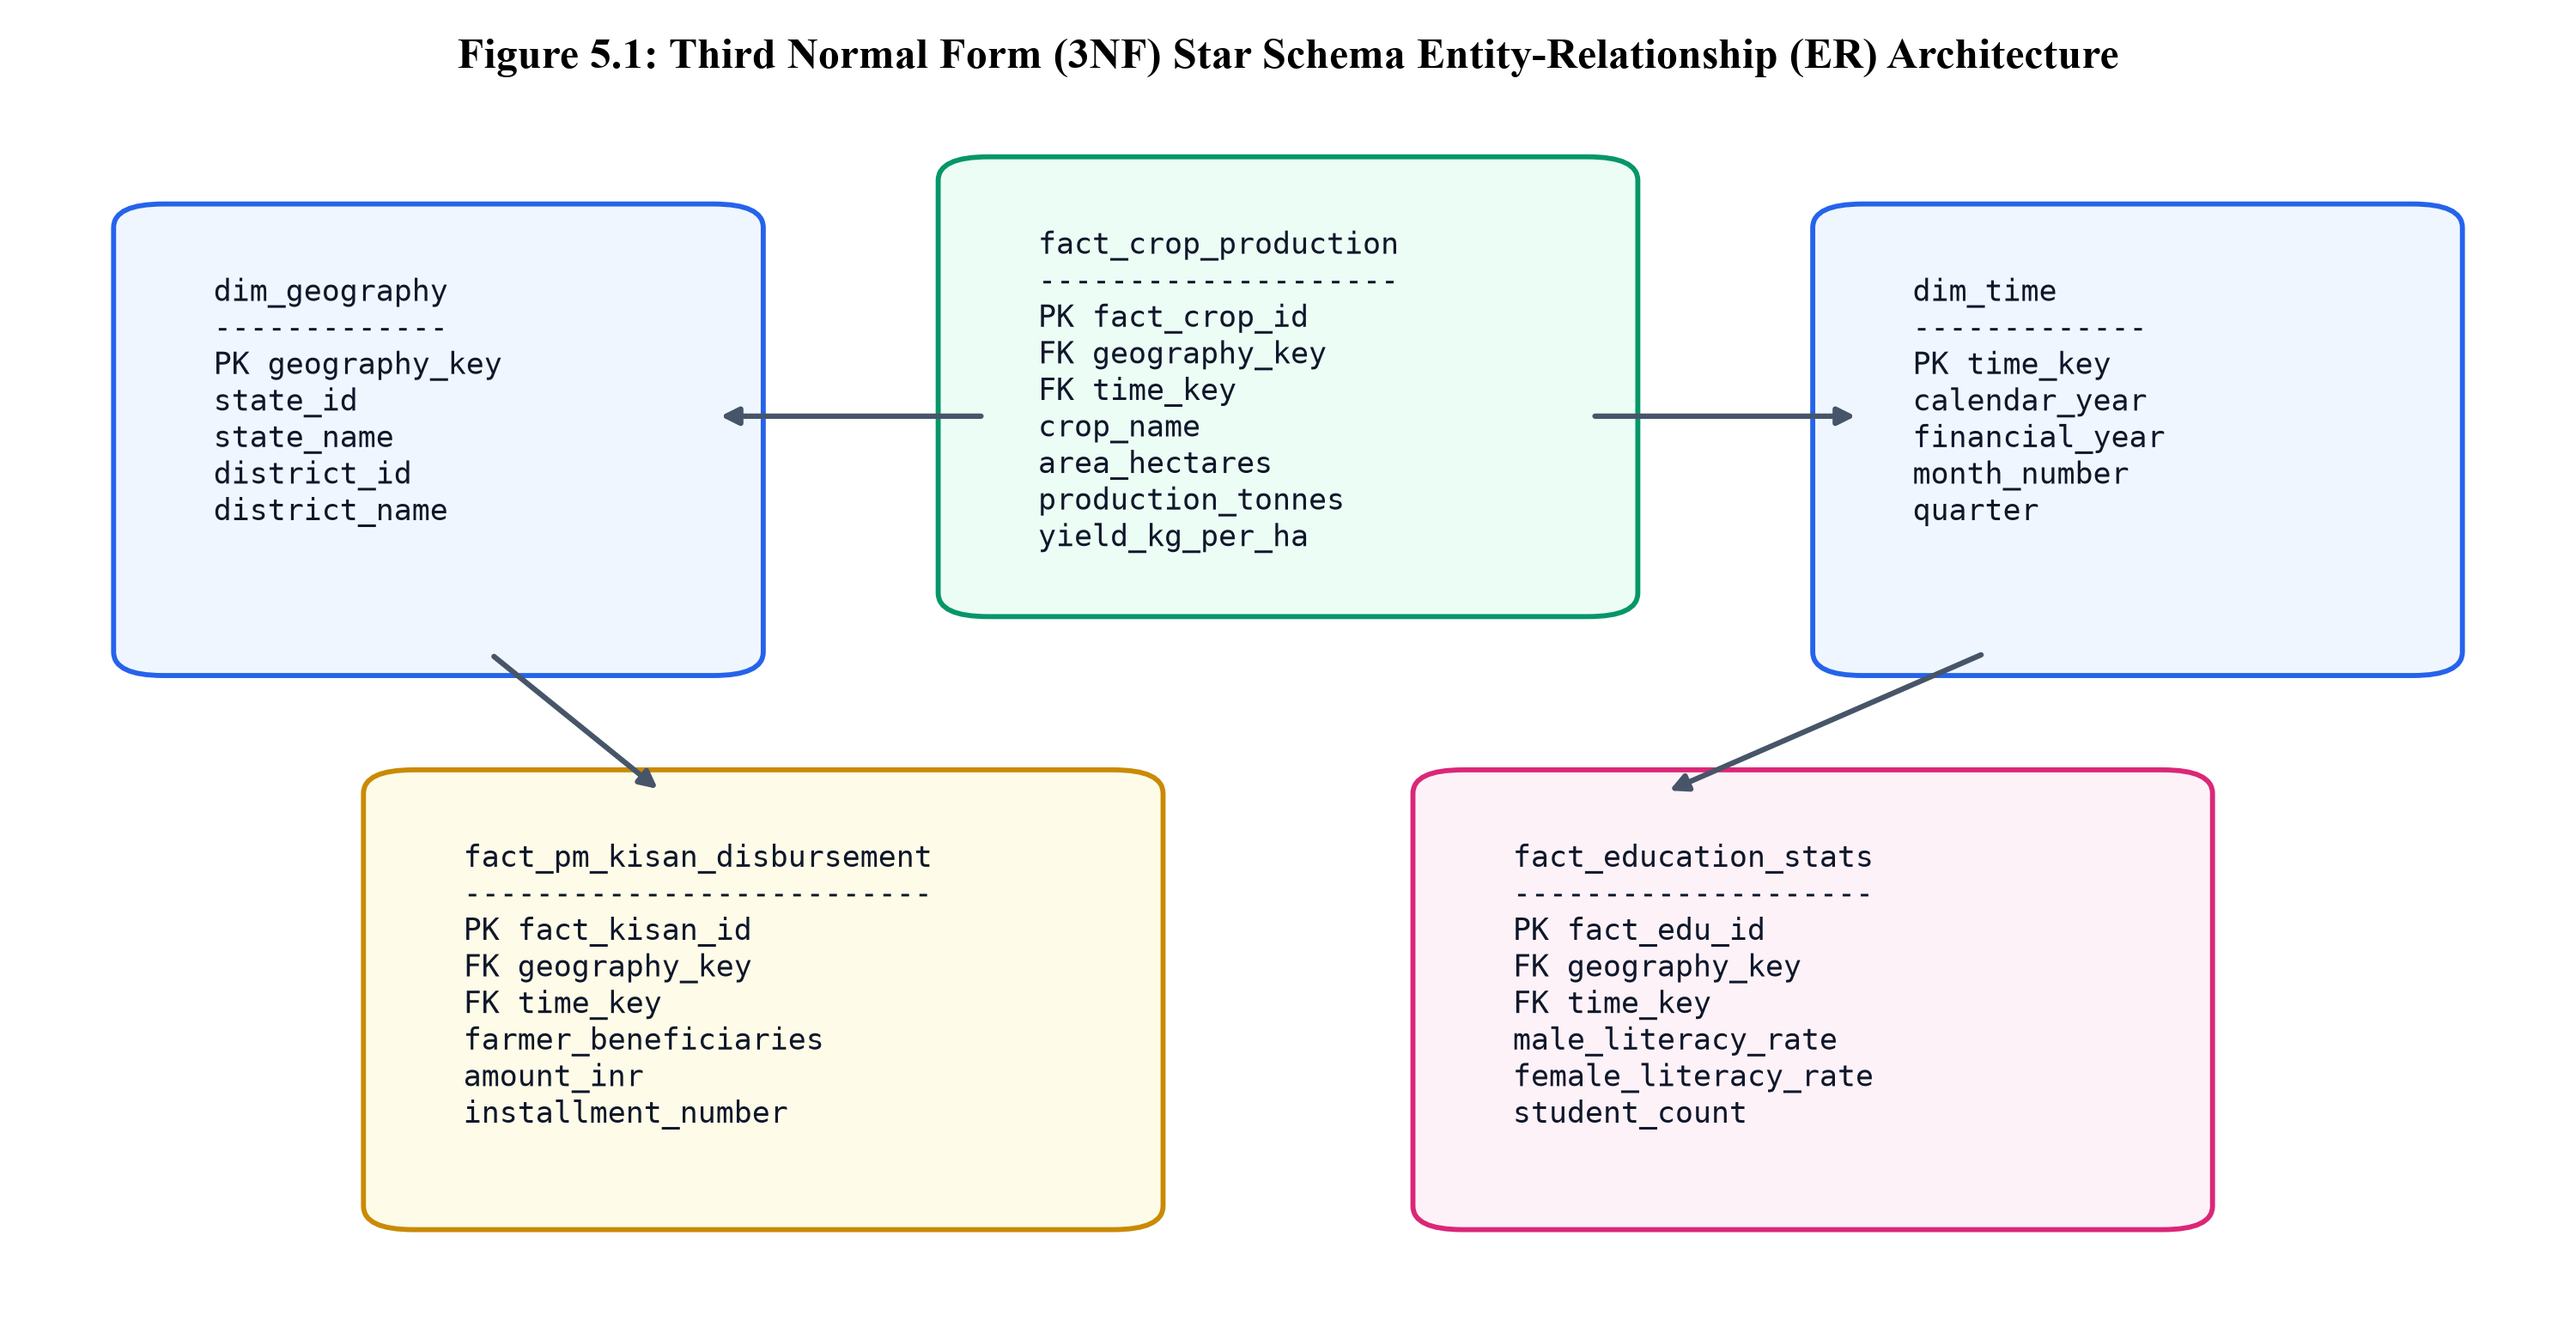
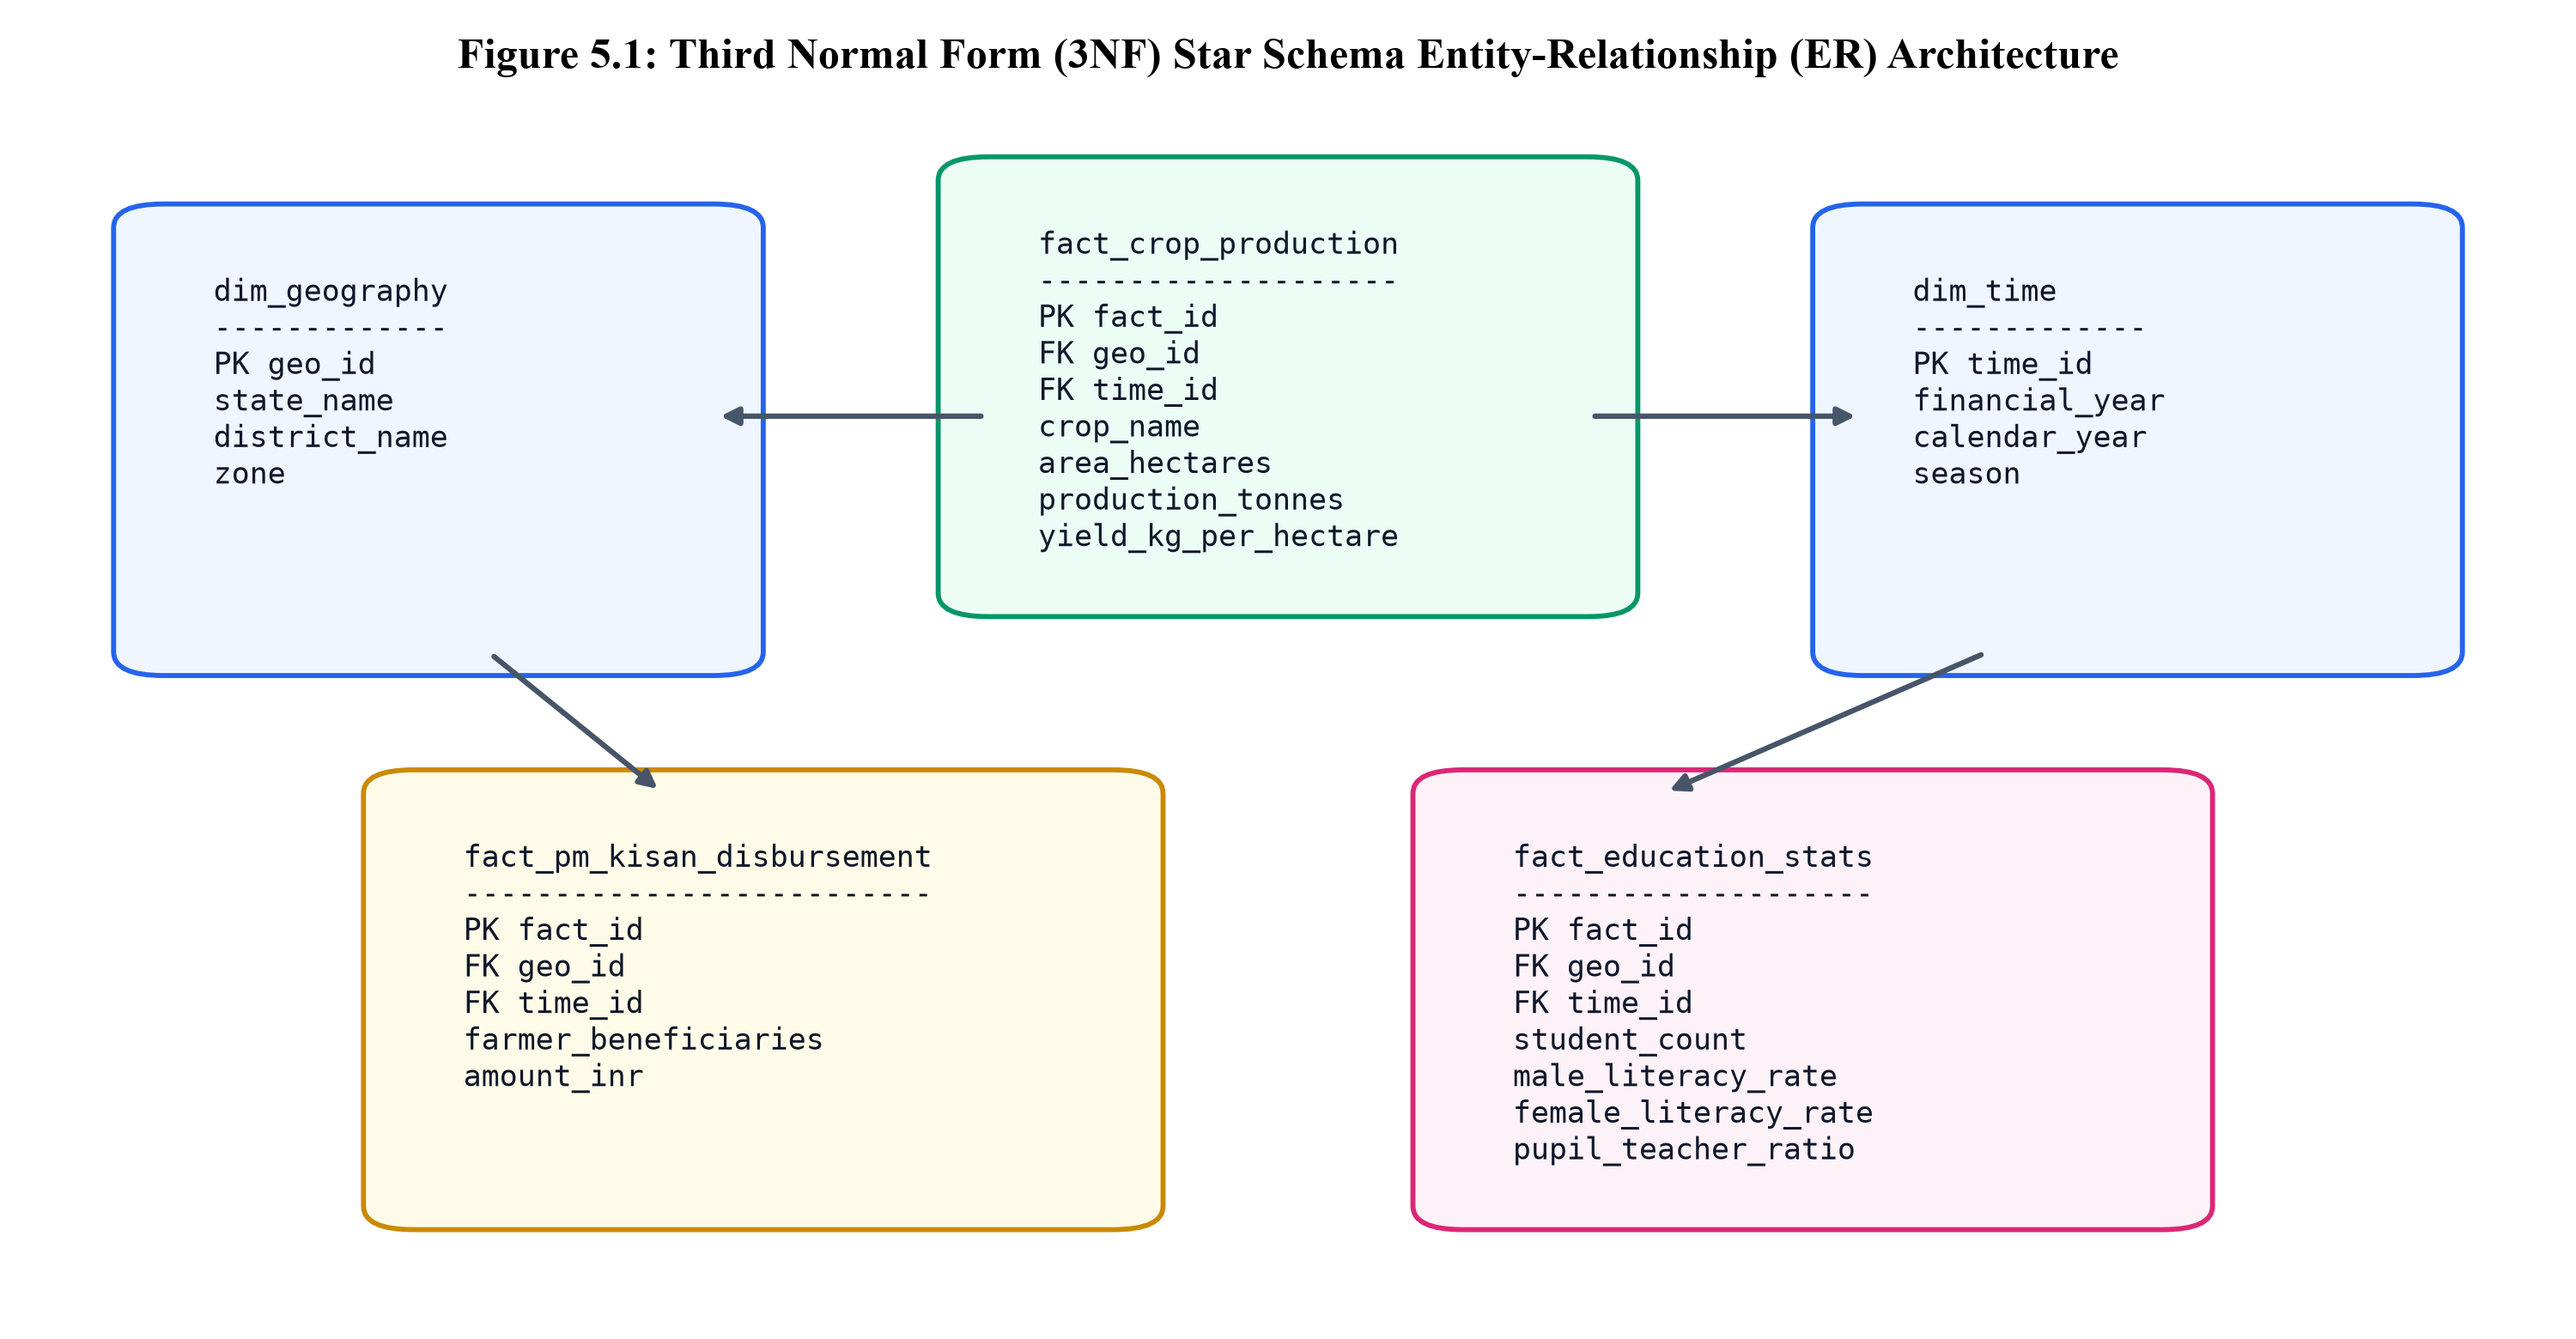
docs: align star schema ER diagram column keys with parquet tables

diff --git a/scripts/build_complete_report.py b/scripts/build_complete_report.py
@@ -400,12 +400,12 @@ def build_report():
     add_body_p(doc, "A primary engineering challenge of government datasets is their historical distribution as denormalized, monolithic flat CSV files containing 50 to 120 sparse columns. Such flat architectures induce massive data redundancy, lack referential integrity, and degrade OLAP analytical scan performance.")
     add_body_p(doc, "In IndicSQL, all 20 NDAP catalogs were structurally refactored into a rigorous Third Normal Form (3NF) Star Schema architecture:")
     add_body_p(doc, "• Shared Conformed Dimensions:")
-    add_body_p(doc, "  - dim_geography: Consolidates administrative hierarchies across India, assigning unique synthetic surrogate keys (geography_key) mapped to state_id, state_name, district_id, and district_name.")
-    add_body_p(doc, "  - dim_time: Normalizes temporal attributes into conformed calendar_year, financial_year, quarter, and month_number, indexed by time_key.")
+    add_body_p(doc, "  - dim_geography: Consolidates administrative hierarchies across India, assigning unique synthetic surrogate keys (geo_id) mapped to state_name, district_name, and zone.")
+    add_body_p(doc, "  - dim_time: Normalizes temporal attributes into conformed calendar_year, financial_year, and season, indexed by time_id.")
     add_body_p(doc, "• Domain-Specific Fact Tables:")
-    add_body_p(doc, "  - fact_crop_production: Stores quantitative agricultural metrics (area_hectares, production_tonnes, yield_kg_per_ha) indexed by geography_key and time_key.")
-    add_body_p(doc, "  - fact_pm_kisan_disbursement: Records rural welfare disbursements (farmer_beneficiaries, amount_inr, installment_number).")
-    add_body_p(doc, "  - fact_education_stats: Contains literacy and educational indicators (male_literacy_rate, female_literacy_rate, student_count).")
+    add_body_p(doc, "  - fact_crop_production: Stores quantitative agricultural metrics (area_hectares, production_tonnes, yield_kg_per_hectare) indexed by geo_id and time_id.")
+    add_body_p(doc, "  - fact_pm_kisan_disbursement: Records rural welfare disbursements (farmer_beneficiaries, amount_inr) indexed by geo_id and time_id.")
+    add_body_p(doc, "  - fact_education_stats: Contains literacy and educational indicators (male_literacy_rate, female_literacy_rate, pupil_teacher_ratio) indexed by geo_id and time_id.")
     add_body_p(doc, "All tables are persisted as binary Apache Parquet columnar files utilizing dictionary encoding and Snappy block compression, achieving up to 85% storage reduction and 40x faster query scans compared to raw CSVs.")
 
     # Insert Figure 5.1
@@ -443,7 +443,7 @@ def build_report():
     add_table_data(doc, cat_headers, cat_data, col_widths=[1.8, 1.2, 1.6, 1.4, 0.6])
 
     add_sec_heading(doc, "5.3", "ER Diagrams and Relational Cardinalities")
-    add_body_p(doc, "As documented in Figure 5.1, the conformed dimension tables dim_geography and dim_time exhibit 1-to-many (1:N) relationships with each corresponding fact table. Primary key surrogate identifiers (geography_key and time_key) are enforced via foreign key constraints, guaranteeing referential integrity and supporting high-efficiency dimensional slicing without requiring costly runtime subqueries.")
+    add_body_p(doc, "As documented in Figure 5.1, the conformed dimension tables dim_geography and dim_time exhibit 1-to-many (1:N) relationships with each corresponding fact table. Primary key surrogate identifiers (geo_id and time_id) are enforced via foreign key constraints, guaranteeing referential integrity and supporting high-efficiency dimensional slicing without requiring costly runtime subqueries.")
 
     add_sec_heading(doc, "5.4", "Assumptions and Dependencies")
     add_body_p(doc, "• Host Hardware: Execution assumes an Apple Silicon M-series processor (or modern x86 CPU with AVX-512 support) and a minimum of 8 GB unified memory.")

diff --git a/scripts/generate_report_figures.py b/scripts/generate_report_figures.py
@@ -188,11 +188,11 @@ def generate_fig_5_1_er_diagram():
     ax.axis("off")
 
     tables = [
-        {"name": "dim_geography\n-------------\nPK geography_key\nstate_id\nstate_name\ndistrict_id\ndistrict_name", "pos": (0.05, 0.55), "w": 0.22, "h": 0.36, "fc": "#eff6ff", "ec": "#2563eb"},
-        {"name": "dim_time\n-------------\nPK time_key\ncalendar_year\nfinancial_year\nmonth_number\nquarter", "pos": (0.73, 0.55), "w": 0.22, "h": 0.36, "fc": "#eff6ff", "ec": "#2563eb"},
-        {"name": "fact_crop_production\n--------------------\nPK fact_crop_id\nFK geography_key\nFK time_key\ncrop_name\narea_hectares\nproduction_tonnes\nyield_kg_per_ha", "pos": (0.38, 0.6), "w": 0.24, "h": 0.35, "fc": "#ecfdf5", "ec": "#059669"},
-        {"name": "fact_pm_kisan_disbursement\n--------------------------\nPK fact_kisan_id\nFK geography_key\nFK time_key\nfarmer_beneficiaries\namount_inr\ninstallment_number", "pos": (0.15, 0.08), "w": 0.28, "h": 0.35, "fc": "#fefce8", "ec": "#ca8a04"},
-        {"name": "fact_education_stats\n--------------------\nPK fact_edu_id\nFK geography_key\nFK time_key\nmale_literacy_rate\nfemale_literacy_rate\nstudent_count", "pos": (0.57, 0.08), "w": 0.28, "h": 0.35, "fc": "#fdf2f8", "ec": "#db2777"},
+        {"name": "dim_geography\n-------------\nPK geo_id\nstate_name\ndistrict_name\nzone", "pos": (0.05, 0.55), "w": 0.22, "h": 0.36, "fc": "#eff6ff", "ec": "#2563eb"},
+        {"name": "dim_time\n-------------\nPK time_id\nfinancial_year\ncalendar_year\nseason", "pos": (0.73, 0.55), "w": 0.22, "h": 0.36, "fc": "#eff6ff", "ec": "#2563eb"},
+        {"name": "fact_crop_production\n--------------------\nPK fact_id\nFK geo_id\nFK time_id\ncrop_name\narea_hectares\nproduction_tonnes\nyield_kg_per_hectare", "pos": (0.38, 0.6), "w": 0.24, "h": 0.35, "fc": "#ecfdf5", "ec": "#059669"},
+        {"name": "fact_pm_kisan_disbursement\n--------------------------\nPK fact_id\nFK geo_id\nFK time_id\nfarmer_beneficiaries\namount_inr", "pos": (0.15, 0.08), "w": 0.28, "h": 0.35, "fc": "#fefce8", "ec": "#ca8a04"},
+        {"name": "fact_education_stats\n--------------------\nPK fact_id\nFK geo_id\nFK time_id\nstudent_count\nmale_literacy_rate\nfemale_literacy_rate\npupil_teacher_ratio", "pos": (0.57, 0.08), "w": 0.28, "h": 0.35, "fc": "#fdf2f8", "ec": "#db2777"},
     ]
 
     for t in tables:
